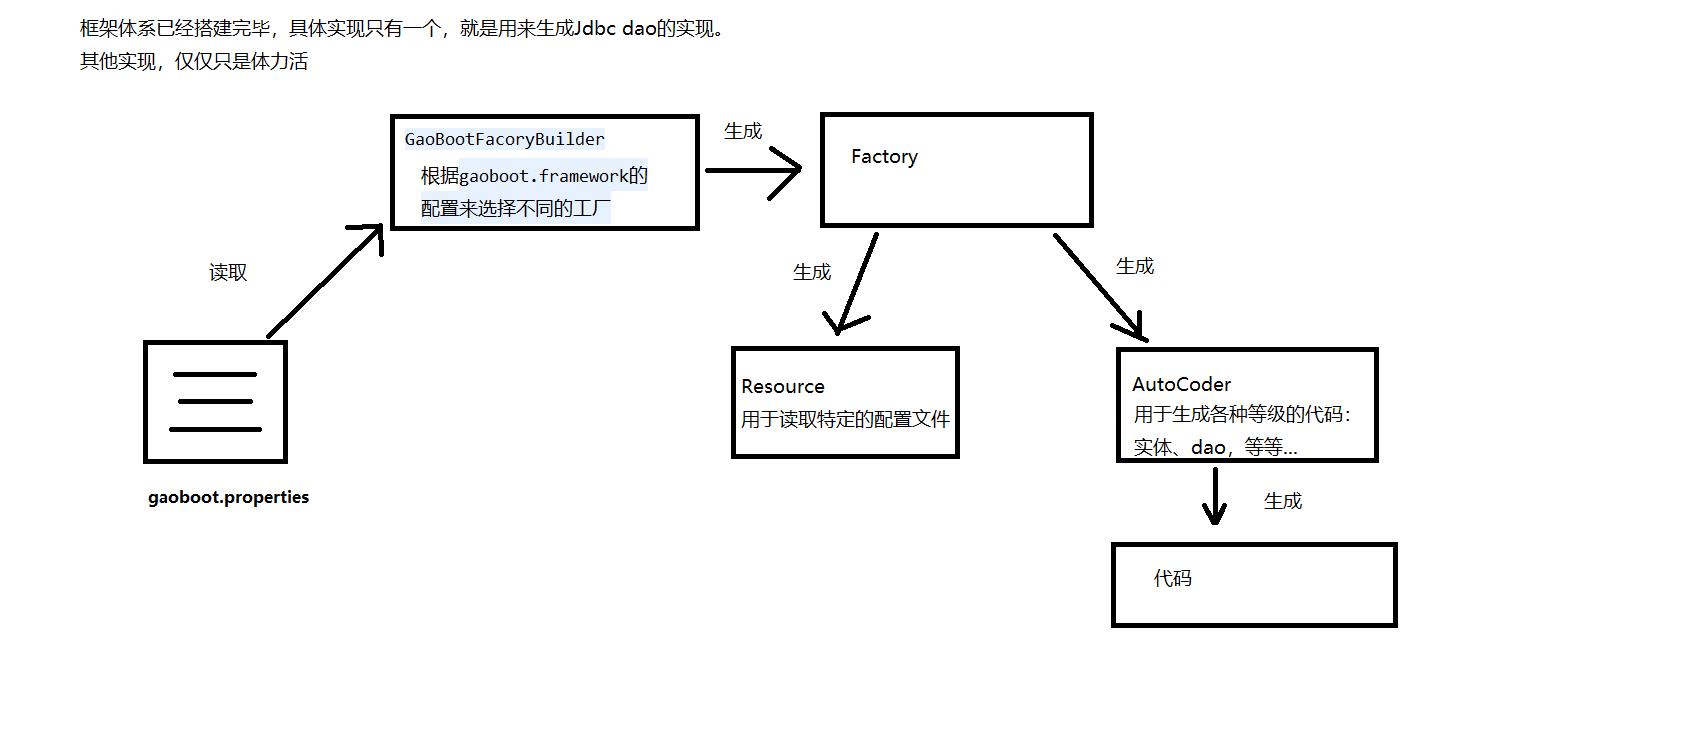
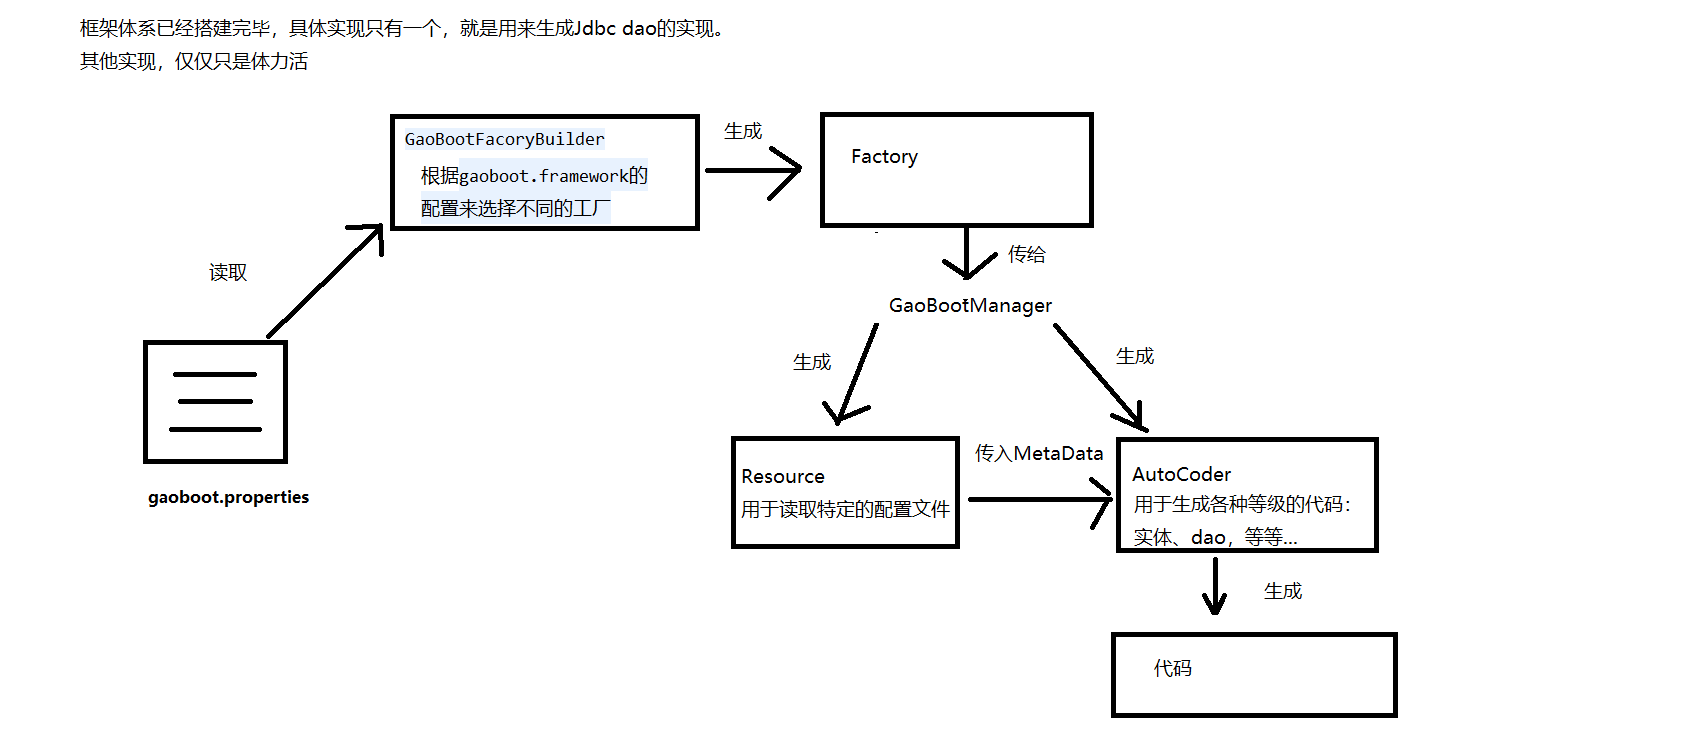
修复一些小问题： 1. GaoBootManager中，没有使用工厂来获取产品，而是直接依赖于具体产品 2. 修正了principle.png所表示的原理图 3. 删除了测试中产生的多余的文件和目录：com/gao/JdbcUtils.java

Changed region(s): [[0.4318, 0.3125, 0.8327, 0.9375], [0.6477, 0.9688, 0.8327, 1.0]]

diff --git a/src/main/java/com/gao/boot/GaoBootManager.java b/src/main/java/com/gao/boot/GaoBootManager.java
@@ -27,9 +27,9 @@ public class GaoBootManager {
 		Resource r = factory.getResource();
 		List<? extends MetaData> list = r.parse();
 		
-		AutoCoder ac = new JavaEntityAutoCoder();
-		AutoCoder ac2 = new JavaDaoInterfaceAutoCoder();
-		AutoCoder ac3 = new JavaJdbcDaoImplAutoCoder();
+		AutoCoder ac = factory.getEntityAutoCoder();
+		AutoCoder ac2 = factory.getDaoInterfaceAutoCoder();
+		AutoCoder ac3 = factory.getDaoImplAutoCoder();
 		for (MetaData md : list) {
 			Code code = ac.generateCode(md);
 			Code code2 = ac2.generateCode(md);
